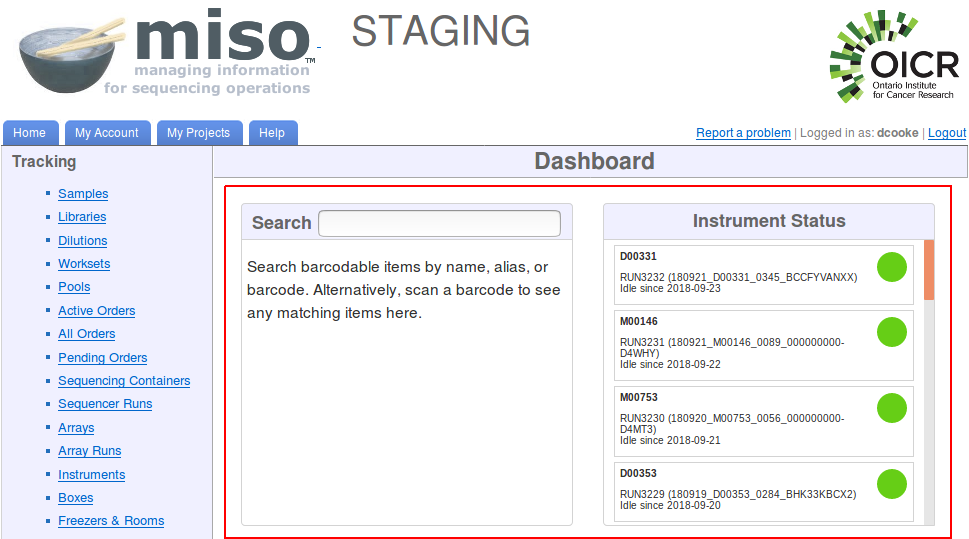
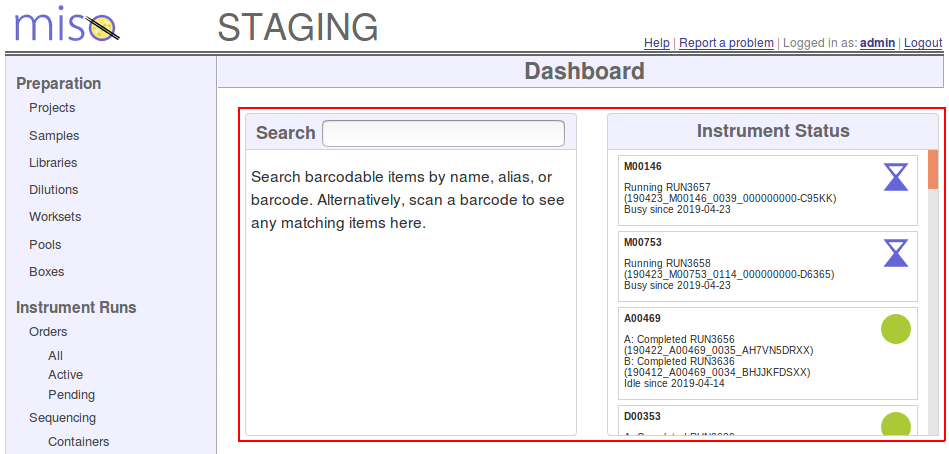
GLT-2833: reduced size of header; moved tab links (#1908)

Changed region(s): [[0.0, 0.0, 1.0, 1.0]]

diff --git a/miso-web/src/main/webapp/styles/style-full.css b/miso-web/src/main/webapp/styles/style-full.css
@@ -115,69 +115,38 @@ div.lowquality div {
 	color: #a93232;
 }
 
-#navtabs {
-    float: left;
-    width: 100%;
-    font-size: 93%;
-    line-height: normal;
+#pageHeader {
+	display: table;
+	width: 100%;
     border-bottom: thick double #666;
-    margin-bottom: 0em; /*margin between menu and rest of page*/
-    overflow: hidden;
 }
 
-#navtabs ul {
-    margin: 0;
-    padding: 10px 10px 0 0px;
-    list-style: none;
-
+#pageHeader .cell {
+    display: table-cell;
+    vertical-align: bottom;
 }
 
-#navtabs li {
-    display: inline;
-    margin: 0;
-    padding: 0;
+#pageHeader #logoContainer {
+    width: 192px;
+    padding-left: 10px;
+    float:left;
 }
 
-#navtabs a {
-    float: left;
-    background: url("images/left.png") no-repeat left top;
-    margin: 0;
-    padding: 0 0 0 6px;
-    text-decoration: none;
+#pageHeader #misologo {
+    height: 36px;
 }
 
-#navtabs a span {
-    float: left;
-    display: block;
-    background: url("images/right.png") no-repeat right top;
-    padding: 6px 15px 4px 6px;
-    margin-right: 2px;
-    color: #FFF;
-}
-
-/* Commented Backslash Hack hides rule from IE5-Mac \*/
-#navtabs a span {
-    float: none;
-}
-
-/* End IE5-Mac hack */
-#navtabs a:hover span {
-}
-
-#navtabs a:hover {
-    background-position: 0% -42px;
-}
-
-#navtabs a:hover span {
-    background-position: 100% -42px;
+#pageHeader #instanceName {
+    font: Helvetica;
+    color: #666666;
+    font-size: 36px;
+    padding-left: 10px;
 }
 
 #loggedInBanner {
     color: gray;
-    margin-top: -21px;
     padding-right: 2px;
     float: right;
-    text-align: right;
     font-size: 12px;
 }
 
@@ -1054,17 +1023,6 @@ div.flashinfo {
     margin-bottom: 12px;
     font-size: 1em;
     border: 2px solid;
-}
-
-td.headertable #instanceName {
-    font: Helvetica;
-    color: #666666;
-    display: inline;
-    font-size: 72px;
-}
-
-td.headertable {
-	vertical-align: middle;
 }
 
 .bubbleInfo {

diff --git a/docs/user_manual/general_navigation.md b/docs/user_manual/general_navigation.md
@@ -8,8 +8,8 @@ section: 2
 {% assign sub = 1 %}
 {% include userman-heading.md section=page.section sub=sub title="Home Screen" %}
 The Home Screen or Home Page is the main page of MISO, and contains [widgets](#home-screen-widgets) and links
-to other areas of MISO. To get to the Home Screen, click on either the MISO logo or the "Home" tab, both in
-the top left corner of all MISO pages.
+to other areas of MISO. To get to the Home Screen, click on either the MISO logo in the top left corner of all MISO
+pages.
 
 {% include userman-toplink.md %}
 
@@ -274,14 +274,14 @@ working with items in MISO and the lab. Individual tools are documented in more 
 
 
 {% assign sub = sub | plus: 1 %}
-{% include userman-heading.md section=page.section sub=sub title="My Account Tab" %}
+{% include userman-heading.md section=page.section sub=sub title="My Account" %}
 
-Clicking the "My Account" tab at the top of the screen will take you to a page showing your name and the groups that
-you belong to. There is an Edit link that will open a page showing more of your user details. Depending on your site
-configuration, you may be able to edit some of these details and reset your password from this page. See
+Clicking on your username near the top right of the screen will take you to a page showing your name and the groups
+that you belong to. There is an Edit link that will open a page showing more of your user details. Depending on your
+site configuration, you may be able to edit some of these details and reset your password from this page. See
 [Authentication](site_configuration.html#logging_in) for more details.
 
-If you are a MISO administrator, an Administration section will also appear on the My Account tab. The Clear Cache
+If you are a MISO administrator, an Administration section will also appear on the My Account page. The Clear Cache
 action should not be necessary, but can be used to help troubleshoot bugs. The Refresh Constants action can be used to
 make new type data values show up immediately in cases where they do not. For more information, see the
 [Type Data section](type_data.html).
@@ -291,25 +291,9 @@ make new type data values show up immediately in cases where they do not. For mo
 
 
 {% assign sub = sub | plus: 1 %}
-{% include userman-heading.md section=page.section sub=sub title="My Projects Tab" %}
+{% include userman-heading.md section=page.section sub=sub title="Help" %}
 
-A Project in MISO is a grouping of Studies, Samples, and other items. Permissions may be set at the project level to
-control who has access to all of the items contained within a project.
-
-Clicking the "My Projects" tab at the top of the screen will take you to the Projects list page. This is similar to the
-other list pages, except that it does not appear in the menu on the left side of the screen. From the Projects list
-page,you can click the project links to see view or edit details about a project, or click the "Add" button in the
-toolbar to create a new project.
-
-{% include userman-toplink.md %}
-
-
-
-{% assign sub = sub | plus: 1 %}
-{% include userman-heading.md section=page.section sub=sub title="Help Tab" %}
-
-The "Help" tab at the top of the screen will link you to the MISO user tutorials, where you can learn more about how to
-use MISO by working through a number of exercises.
+The "Help" link near the top right of the screen will link you to this user manual.
 
 {% include userman-toplink.md %}
 

diff --git a/docs/user_manual/projects.md b/docs/user_manual/projects.md
@@ -14,10 +14,11 @@ such as pools and sequencer runs, may include items from multiple projects.
 {% assign sub = 1 %}
 {% include userman-heading.md section=page.section sub=sub title="Projects List" %}
 
-The Projects list page can be accessed by clicking the "My Projects" tab near the top of the screen. Here you can see
-all of the projects that you have access to in MISO. Clicking on the project's name, alias, or short name in the table
-will take you to the Edit Project page, where you can see more project details, as well as all of the items associated
-with the project. The toolbar at the top of the table includes an "Add" button for creating new projects.
+The Projects list page can be accessed by clicking the "Projects" link in the Preparation list in the menu on the left
+side of the screen. Here you can see all of the projects that you have access to in MISO. Clicking on the project's
+name, alias, or short name in the table will take you to the Edit Project page, where you can see more project details,
+as well as all of the items associated with the project. The toolbar at the top of the table includes an "Add" button
+for creating new projects.
 
 {% include userman-toplink.md %}
 

diff --git a/docs/_posts/2018-09-20-user-manual-table-of-contents.md b/docs/_posts/2018-09-20-user-manual-table-of-contents.md
@@ -96,11 +96,9 @@ weekly to [GitHub](https://github.com/miso-lims/miso-lims/releases).
 {% assign sub = sub | plus: 1 %}
 {% include userman-toc-link.md section=section sub=sub section-title=section-title title="Tools" %}
 {% assign sub = sub | plus: 1 %}
-{% include userman-toc-link.md section=section sub=sub section-title=section-title title="My Account Tab" %}
+{% include userman-toc-link.md section=section sub=sub section-title=section-title title="My Account" %}
 {% assign sub = sub | plus: 1 %}
-{% include userman-toc-link.md section=section sub=sub section-title=section-title title="My Projects Tab" %}
-{% assign sub = sub | plus: 1 %}
-{% include userman-toc-link.md section=section sub=sub section-title=section-title title="Help Tab" %}
+{% include userman-toc-link.md section=section sub=sub section-title=section-title title="Help" %}
 {% assign sub = sub | plus: 1 %}
 {% include userman-toc-link.md section=section sub=sub section-title=section-title title="Quick Help" %}
 

diff --git a/RELEASE_NOTES.md b/RELEASE_NOTES.md
@@ -2,6 +2,11 @@
 
 Changes:
 
+* Redesigned page header to minimize wasted space. Tabs have been removed and the links relocated:
+  * Home: MISO logo
+  * My Account: Username link near the top right of the screen
+  * My Projects: "Projects" link under Preparation in the navigation menu
+  * Help: "Help" link near the top right of the screen
 * Added single Edit Dilution page
 * Added dilution changelogs, separated from library changelogs
 * Changed Edit Library page to show validation messages instead of error page when saving fails
